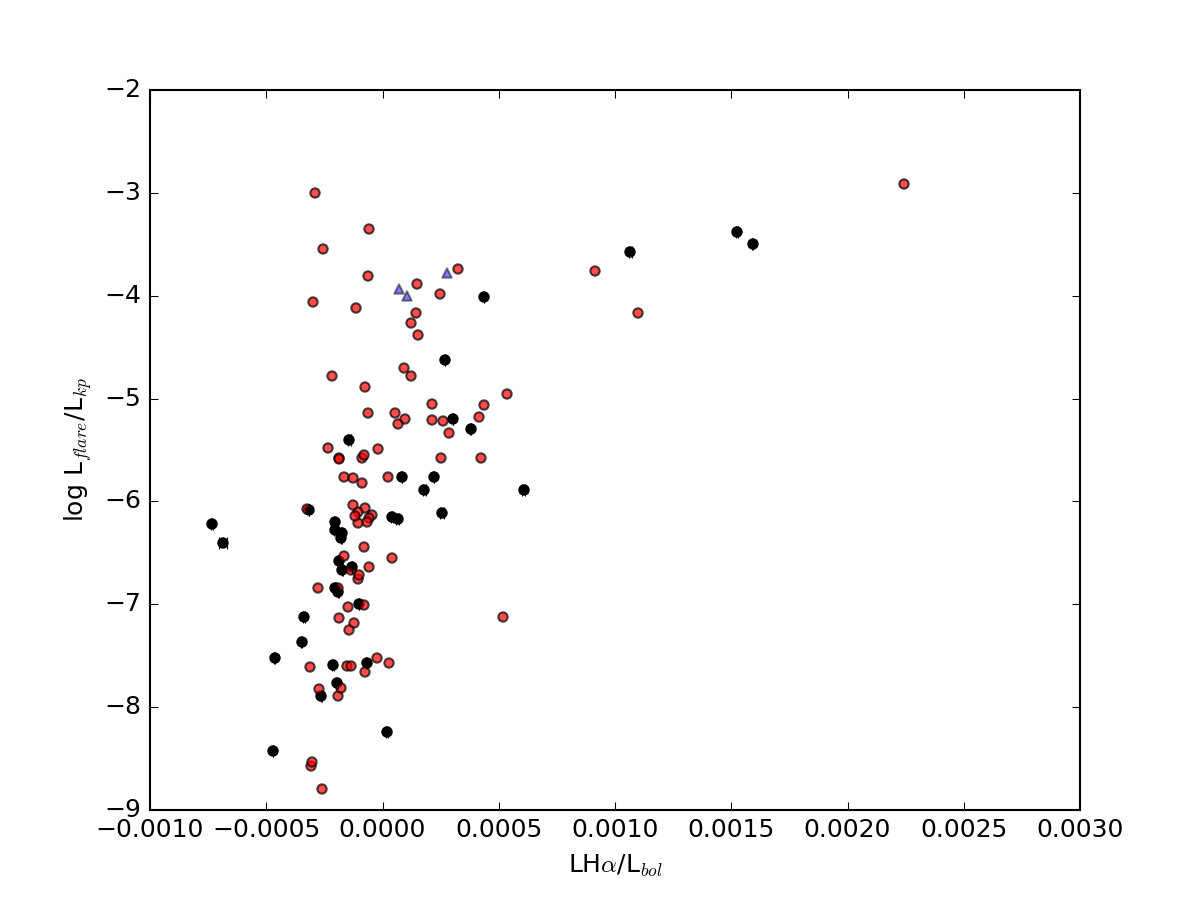
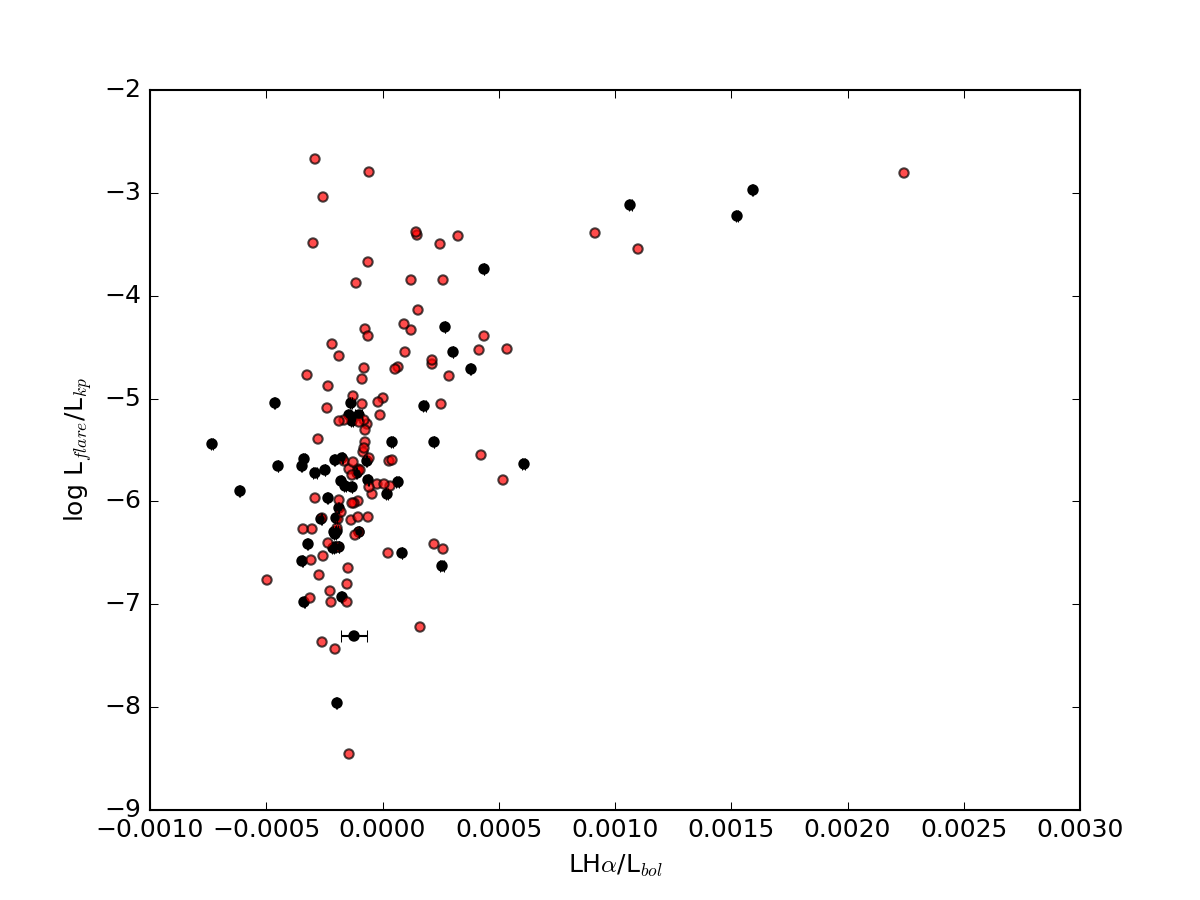
udpate figure

diff --git a/code/havfl.py b/code/havfl.py
@@ -15,8 +15,10 @@ fdata = pd.read_csv(flarefile)
 '''
 match Amy's M dwarf tables to the RA,Dec
 Marcel will then use these to look for serendipitous X-ray detections
+... none found.
 '''
 
+# all M dwarfs from Amy McQuillan's 2013 paper
 Mfile = '../data/mcquillan/all_m.csv'
 kic_m, kic_mper = np.loadtxt(Mfile, delimiter=',', usecols=(0,1), skiprows=1, unpack=True)
 
@@ -26,7 +28,7 @@ gi_m = np.zeros_like(kic_m)-99
 fl_m = np.zeros_like(kic_m)-99 # the Lfl/Lkp measurement!
 
 for k in range(len(kic_m)):
-    mtc = np.where((kic_m[k] == ddata['kicnum'].values))
+    mtc = np.where((kic_m[k] == fdata['kicnum'].values))
     ra_m[k] = fdata['ra'].values[mtc][0]
     de_m[k] = fdata['dec'].values[mtc][0]
     fl_m[k] = fdata['LflLkep'].values[mtc][0]
@@ -39,7 +41,7 @@ for k in range(len(kic_m)):
 
 ### The object ID's from LAMOST that had matches in Amy's sample were then sent
 ### to the LAMOST DR1 site (http://dr1.lamost.org/q),
-### and spectra retrieved (lamost_match/fitspng1938584811/)
+### and spectra retrieved (../data/lamost_match/fitspng1938584811/)
 
 ### With LAMOST spectra in hand, I then ran Hammer to get Halpha
 
@@ -58,7 +60,7 @@ for k in range(len(kic_m)):
         ewhaerr_m[k] = hdata['ewerr '].values[mtc][0]
         file_L[k] = hdata['eyename'].values[mtc][0]
 
-# only the M dwarfs in our sample with valid EWHA measurements
+# only want the M dwarfs in our sample with valid EWHA measurements
 ok = np.where((ewha_m > -99) & (ewhaerr_m < 100))
 ok1 = np.where((ewha_m > -99) & (ewhaerr_m < 100) & (kic_mper > 0))
 ok0 = np.where((ewha_m > -99) & (ewhaerr_m < 100) & (kic_mper <= 0))
@@ -156,11 +158,5 @@ plt.xlim(-0.001, 0.003)
 plt.ylim(-9,-2)
 plt.xlabel(r'LH$\alpha$/L$_{bol}$')
 plt.ylabel('log L$_{flare}$/L$_{kp}$')
-plt.savefig('figures/flare_vs_lhalbol.png',dpi=150)
+plt.savefig('../figures/flare_vs_lhalbol.png',dpi=150)
 plt.close()
-
-
-# plt.figure()
-# plt.scatter(kic_mper[ok], lha_lbol_m[ok], c='k')
-# plt.scatter(kic_mper[okt], lha_lbol_mt[okt], c='r')
-# plt.show()
